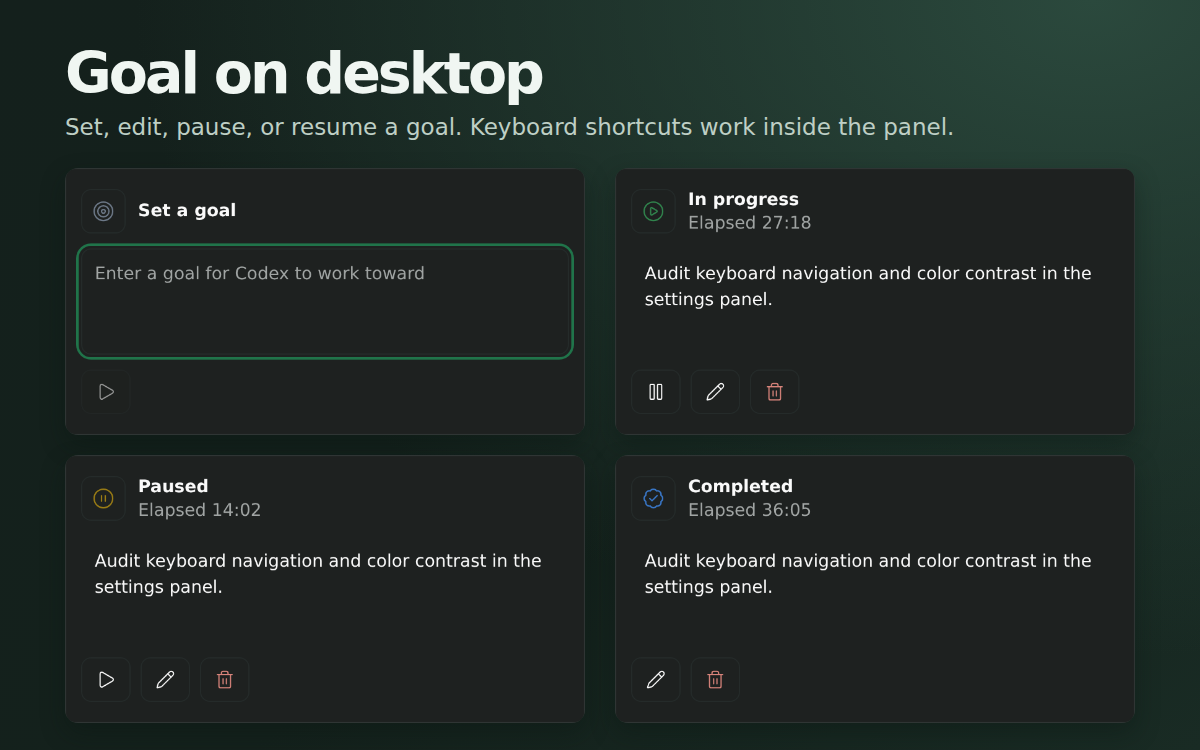
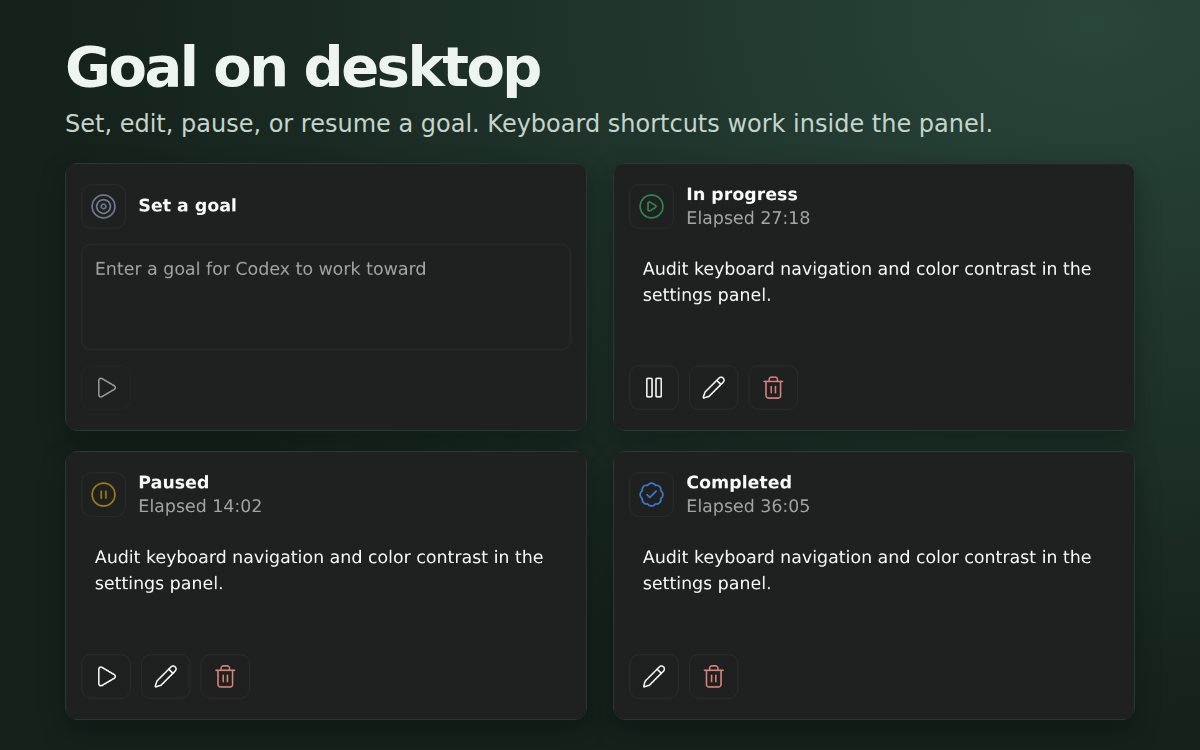
Release Codex Goal 0.1.7

diff --git a/client/goal.tsx b/client/goal.tsx
@@ -95,12 +95,20 @@ function GoalStatusIcon({ status, size }: { status: keyof typeof goalStatusIcons
   return <Icon name={name} color={color} size={size} />;
 }
 
-function GoalWarningIcon({ size, chineseTextOffset = 0 }: { size: number; chineseTextOffset?: number }) {
-  const { locale } = useTranslation(messages);
-  const translateY = locale.startsWith("zh") ? chineseTextOffset : 0;
+function GoalPillIcon({ status, chineseLabel = false }: { status: keyof typeof goalStatusIcons; chineseLabel?: boolean }) {
   return (
-    <View style={{ width: size, height: size, flexShrink: 0, transform: [{ translateY }] }}>
-      <GoalStatusIcon status="unavailable" size={size} />
+    <View style={{ transform: [{ translateY: chineseLabel ? 0.5 : -0.5 }] }}>
+      <GoalStatusIcon status={status} size={16} />
+    </View>
+  );
+}
+
+const panelStatusIconSize = 22;
+
+function GoalWarningIcon() {
+  return (
+    <View style={{ flexShrink: 0 }}>
+      <GoalStatusIcon status="unavailable" size={panelStatusIconSize} />
     </View>
   );
 }
@@ -118,29 +126,34 @@ export function createGoalIcon(
       if (unavailable) updateButton("Goal", failureTitle);
     }, [unavailable, failureTitle]);
     if (unavailable) {
-      return <GoalWarningIcon size={props.size} />;
+      return <GoalPillIcon status="unavailable" />;
     }
     return props.context === "agent" ? <GoalIndicator {...props} updateButton={updateButton} /> : null;
   };
 }
 
 function GoalIndicator({
-  host, agentId, layout, size, updateButton,
+  host, agentId, layout, updateButton,
 }: Extract<PluginButtonIconProps, { context: "agent" }> & {
   updateButton: (label: string, title: string) => void;
 }) {
   const { state: { data, dataUpdatedAt }, readFailed } = useGoal(host.id, agentId);
-  const { t } = useTranslation(messages);
+  const { t, locale } = useTranslation(messages);
   const goal = data?.goal;
   const status = readFailed ? t("readFailed") : goal ? t(`status.${goal.status}`) : null;
   const { seconds } = useGoalTime(data, dataUpdatedAt, readFailed);
   const elapsed = seconds === undefined ? null : formatDuration(seconds);
-  const label = elapsed ?? (readFailed ? t("readFailed") : "Goal");
+  const showReadFailure = readFailed && elapsed === null;
+  const label = elapsed ?? (showReadFailure ? t("pillReadFailed") : "Goal");
   const title = layout.compact ? "Goal" :
     ["Codex Goal", status, elapsed && t("elapsed", { time: elapsed })].filter(Boolean).join(" · ");
   useEffect(() => updateButton(label, title), [label, title, updateButton]);
-  if (readFailed) return <GoalWarningIcon size={size} chineseTextOffset={elapsed === null ? 1.5 : 0} />;
-  return <GoalStatusIcon status={goal?.status ?? "unset"} size={size} />;
+  return (
+    <GoalPillIcon
+      status={readFailed ? "unavailable" : goal?.status ?? "unset"}
+      chineseLabel={showReadFailure && locale.startsWith("zh")}
+    />
+  );
 }
 
 type SubscriptionRetry = { retrying: boolean; onRetry: () => void };
@@ -174,9 +187,9 @@ export function GoalSubscriptionNotice({
   const { t } = useTranslation(messages);
   return (
     <View style={{ gap: 10, paddingVertical: 4 }}>
-      <View style={{ flexDirection: "row", alignItems: "center", gap: 7 }}>
-        <GoalWarningIcon size={16} chineseTextOffset={2} />
-        <Text style={{ color: colors.foreground, fontWeight: "600", flexShrink: 1 }}>{t("syncFailed")}</Text>
+      <View style={styles.statusRow}>
+        <GoalWarningIcon />
+        <Text style={[styles.statusLabel, { color: colors.foreground, fontWeight: "600" }]}>{t("syncFailed")}</Text>
       </View>
       <Text accessibilityLiveRegion="polite" style={{ color: colors.foregroundMuted }}>
         {t(retrying ? "syncing" : "syncFailedDetail")}
@@ -206,8 +219,8 @@ export function GoalSubscriptionNotice({
 function GoalReadError({ theme, message }: Pick<PluginHostProps, "theme"> & { message: string }) {
   return (
     <View style={styles.statusRow}>
-      <GoalWarningIcon size={16} chineseTextOffset={2} />
-      <Text accessibilityLiveRegion="polite" style={{ color: theme.colors.foreground, flexShrink: 1 }}>
+      <GoalWarningIcon />
+      <Text accessibilityLiveRegion="polite" style={[styles.statusLabel, { color: theme.colors.foreground }]}>
         {message}
       </Text>
     </View>
@@ -299,10 +312,10 @@ function GoalControls({
             aria-hidden
             style={[styles.statusTile, { backgroundColor: colors.surface1, borderColor: colors.border }]}
           >
-            <GoalStatusIcon status={goal?.status ?? "unset"} size={layout.compact ? 20 : 18} />
+            <GoalStatusIcon status={goal?.status ?? "unset"} size={panelStatusIconSize} />
           </View>
           <View style={styles.statusText}>
-            <Text style={{ color: colors.foreground, fontWeight: "600" }}>{goal ? t(`status.${goal.status}`) : t("setup")}</Text>
+            <Text style={[styles.statusLabel, { color: colors.foreground, fontWeight: "600" }]}>{goal ? t(`status.${goal.status}`) : t("setup")}</Text>
             {goal && (
               <GoalTime theme={theme} snapshot={snapshot} receivedAt={state.dataUpdatedAt} stale={readFailed} />
             )}
@@ -431,6 +444,10 @@ const styles = StyleSheet.create({
     flexShrink: 1,
     gap: 3,
   },
+  statusLabel: {
+    flexShrink: 1,
+    includeFontPadding: false,
+  },
   objectiveText: {
     padding: 11,
     fontSize: 14,
@@ -449,7 +466,7 @@ function GoalTime({
   const { t } = useTranslation(messages);
   if (seconds === undefined) return null;
   return (
-    <Text style={{ color: theme.colors.foregroundMuted, fontVariant: ["tabular-nums"] }}>
+    <Text style={[styles.statusLabel, { color: theme.colors.foregroundMuted, fontVariant: ["tabular-nums"] }]}>
       {t("elapsed", { time: formatDuration(seconds) })}
     </Text>
   );
@@ -505,7 +522,7 @@ function Action({
           opacity: disabled ? 0.55 : 1,
         })}
       >
-        <Icon name={icon} size={compact ? 20 : 16} color={destructive ? colors.statusDanger : colors.foreground} />
+        <Icon name={icon} size={20} color={destructive ? colors.statusDanger : colors.foreground} />
       </Pressable>
       {hovered && (
         <View

diff --git a/client/messages.ts b/client/messages.ts
@@ -14,6 +14,7 @@ export const messages = defineTranslations({
       blockedDetail: "Resolve what’s blocking the goal, then choose Resume.",
       elapsed: "Elapsed {{time}}",
       readFailed: "Read failed",
+      pillReadFailed: "Error",
       syncFailed: "Goal session sync failed",
       syncFailedDetail: "Codex sessions could not be synced. The plugin will retry automatically.",
       syncing: "Syncing Codex sessions…",
@@ -86,6 +87,7 @@ export const messages = defineTranslations({
       blockedDetail: "解决阻碍后，点击继续来推进目标。",
       elapsed: "累计运行 {{time}}",
       readFailed: "读取失败",
+      pillReadFailed: "读取失败",
       syncFailed: "Goal 会话同步失败",
       syncFailedDetail: "暂时无法同步 Codex 会话。插件会自动重试。",
       syncing: "正在重新同步 Codex 会话…",

diff --git a/README.md b/README.md
@@ -4,7 +4,7 @@
 
 Codex Goal displays the current goal's elapsed time beside the composer in Codex sessions. Open the button to view its status and full objective, create or edit a goal, pause, resume, or clear it.
 
-The interface follows Paseo's language setting: Simplified Chinese is available, and other languages use English. The Goal button uses distinct icons for active, paused, completed, blocked, usage-limited, and budget-limited goals. Once a blocker is resolved, you can resume from the Goal panel.
+The interface follows Paseo's language setting, with Simplified Chinese available and English as the fallback. The Goal button uses eight distinct icons, including when no goal is set or the goal could not be read. The same status colors appear in the desktop popover and mobile sheet. Once a blocker is resolved, you can resume from the Goal panel.
 
 Elapsed time is based on the seconds recorded by Codex. While a goal is active and the session is running, the interface estimates the time since the last recorded update and reconciles it when Codex writes a new total. Pausing stops further goal progress, though the current turn may continue. Editing uses the native `/goal <objective>` command and attempts to activate the goal.
 
@@ -16,7 +16,7 @@ On desktop and web, shortcuts apply while the Goal panel has focus. The defaults
 
 Under **Settings → Plugins → Codex Goal**, choose the save binding from its dropdown. To change an edit, pause/resume, clear, or retry binding, click its current key and type one letter or choose **Delete**. Choose **Unassigned** to disable a shortcut. Settings are saved per Paseo host.
 
-These Paseo screenshots use sample data in desktop and mobile-sized browsers.
+These screenshots show the Goal panel in Paseo at desktop and mobile widths using sample data.
 
 | Desktop | Mobile |
 | --- | --- |
@@ -70,7 +70,7 @@ Publish new versions through the [codex-goal npm package](https://www.npmjs.com/
 
 Staged publishing requires Node.js 22.14 or later, npm 11.15 or later, and an npm account with publish access and two-factor authentication enabled.
 
-1. Update the version in `package.json` and `npm-shrinkwrap.json`, run the development checks, and inspect the package with `npm pack --dry-run --ignore-scripts`.
+1. Update the version in `package.json` and `npm-shrinkwrap.json`. Run the development checks and use `npm pack --dry-run --ignore-scripts` to verify that both listings and all screenshots are included. Push the release commit to `main` and wait for CI to pass.
 2. Stage the package with `npm stage publish`. Use `npm stage list codex-goal` to find the stage ID, then run `npm stage approve <stage-id>` and complete npm two-factor authentication to publish it.
 3. On a test daemon, install the exact release with `paseo plugin install npm:codex-goal@<version>`, check that it is running, and exercise the Goal panel.
 4. Check the automatic update PR for `fu021/codex-goal` in the Paseo registry. The marketplace serves the new version after Paseo approves and merges that update.

diff --git a/README.zh-CN.md b/README.zh-CN.md
@@ -4,7 +4,7 @@
 
 在 Codex 会话的输入框旁显示 Goal 的累计运行时间。点开按钮可查看状态和完整目标、创建或编辑目标、暂停、继续和清除。
 
-界面跟随 Paseo 的语言设置，支持简体中文，其他语言使用英文。Goal 按钮用不同图标区分进行中、已暂停、已完成、受阻和用量或预算限制。排除阻碍后，可以从 Goal 面板继续。
+界面跟随 Paseo 的语言设置，支持简体中文，其他语言使用英文。Goal 按钮用八种图标区分状态，包括未设置目标和读取失败。桌面浮层和手机底部面板使用相同的状态配色。排除阻碍后，可以从 Goal 面板继续。
 
 累计时间以 Codex 已记录的秒数为准。Goal 活跃且会话正在运行时，界面会估算最近一次目标更新后的本轮耗时，并在 Codex 写入新的累计值时校准。暂停停止目标的后续推进，当前一轮仍可能继续。编辑使用原生 `/goal <目标>`，会尝试激活目标。
 
@@ -16,7 +16,7 @@
 
 在 **设置 → 插件 → Codex Goal** 中，保存键仍在下拉菜单中选择。要更改编辑、暂停或继续、清除确认或重试键，点当前键位后输入一个字母，或选择 **Delete**。选择「未设置」可停用快捷键。设置按 Paseo 主机保存。
 
-以下截图使用示例数据，分别在桌面和手机尺寸的浏览器里打开 Paseo。
+以下截图使用示例数据，展示桌面宽度和手机宽度下的 Paseo Goal 面板。
 
 | 桌面 | 手机 |
 | --- | --- |
@@ -70,7 +70,7 @@ paseo plugin ls
 
 暂存发布需要 Node.js 22.14 或更新版本、npm 11.15 或更新版本，以及有权发布此包并已启用双重验证的 npm 账户。
 
-1. 更新 `package.json` 和 `npm-shrinkwrap.json` 中的版本号，运行开发检查，再用 `npm pack --dry-run --ignore-scripts` 检查包内容。
+1. 更新 `package.json` 和 `npm-shrinkwrap.json` 中的版本号。运行开发检查，再用 `npm pack --dry-run --ignore-scripts` 确认双语介绍和全部截图都在包内。将发布提交推送到 `main`，等待 CI 通过。
 2. 运行 `npm stage publish` 暂存包，用 `npm stage list codex-goal` 查找暂存 ID，再执行 `npm stage approve <暂存 ID>` 并完成 npm 双重验证，正式发布。
 3. 在测试 daemon 上用 `paseo plugin install npm:codex-goal@<版本号>` 安装该版本，确认插件正在运行并试用 Goal 面板。
 4. 查看 Paseo 注册表为 `fu021/codex-goal` 自动创建的更新 PR。Paseo 审核并合并后，市场才会提供新版本。

diff --git a/AGENTS.md b/AGENTS.md
@@ -1,0 +1,22 @@
+# Paseo 插件 Codex Goal
+
+- GitHub 源码仓库为 `Fu021/paseo-codex-goal`，主分支为 `main`。公开 npm 包名为 `codex-goal`，Paseo 市场条目 ID 为 `fu021/codex-goal`。
+- `index.client.tsx` 注册 Paseo 界面，`client/` 包含 Goal 面板、翻译和快捷键设置。`index.server.ts` 处理目标操作，`server/store.ts` 以只读方式查询 Codex 的 SQLite 数据库，`shared/` 定义 RPC 和设置。目标变更通过所选会话的原生 `/goal` 命令执行。
+- 最低版本为 Paseo 0.16.0、Codex CLI 0.128.0 和 Node.js 22.13（插件运行环境）。使用 Paseo 的公开 SDK。
+
+## 开发与测试
+
+- 运行 `npm ci --ignore-scripts`、`npm run typecheck` 和 `npm test`。GitHub Actions 使用 Node.js 22 和 24 进行检查。
+- 在隔离的 Paseo daemon 上验证运行时变更。修改界面后，检查桌面宽屏和手机窄屏布局，包括图标与文字对齐、固定状态配色和清除确认。修改快捷键后，在桌面端或网页端将焦点放在面板内进行验证。
+- 长期复用的工具链放在持久目录。验证完成后，清理一次性测试 daemon、打包产物和预览文件。
+
+## 插件市场
+
+- 在 `OVERVIEW.md` 和 `OVERVIEW.zh-CN.md` 中分别维护英文和简体中文介绍，并在 `paseo-plugin.json` 的 `translations.zh-CN` 中维护中文元数据。npm 包须包含两份介绍。
+- 三张市场展示图统一使用英文和 16:10 比例。用示例数据截取实际 Paseo 界面，封面 `assets/market.png` 展示全部八种状态图标，`assets/desktop.png` 和 `assets/mobile.png` 展示各自布局下的常用状态。
+
+## 发布
+
+1. 同步更新 `package.json` 和 `npm-shrinkwrap.json` 的版本号。运行检查，再用 `npm pack --dry-run --ignore-scripts` 确认打包包含双语介绍、清单和展示图。将发布提交推送到 `main`，确认 CI 通过。
+2. 正式版本只通过 npm 发布。运行 `npm stage publish`，然后运行 `npm stage approve <stage-id>`，由发布者完成双重验证。确认公开版本后，在测试 daemon 上安装 `npm:codex-goal@<version>` 并验证基本功能。
+3. 等待 `getpaseo/plugins` 检测 npm 的 `latest` 并自动创建更新 PR。常规发布无需 fork 市场仓库，也无需手动开 Issue 或提 PR。跟进机器人 PR 的审核和合并，确认市场已更新到获批版本。

diff --git a/OVERVIEW.md b/OVERVIEW.md
@@ -10,7 +10,7 @@ Requires Paseo 0.16.0 or later, Codex CLI 0.128.0 or later, and a plugin runtime
 
 ## Controls and shortcuts
 
-Each goal state has its own icon and color. When there is no goal, the panel opens an editor. After resolving a blocker, choose Resume to continue. If session sync fails, the plugin retries automatically. To retry manually, open the warning or use the composer's extra controls.
+The Goal button shows a distinct icon and color for each state, including when there is no goal or it could not be read. Open it in the desktop popover or mobile sheet to see the details or set a new goal. After resolving a blocker, choose Resume to continue. If session sync fails, the plugin retries automatically. To retry manually, open the warning or use the composer's extra controls.
 
 On desktop and web, use keyboard shortcuts inside the Goal panel to start or save, edit, pause or resume, open clear confirmation, or retry. Change or unassign shortcuts in Settings → Plugins → Codex Goal. The plugin interface follows Paseo's language, with English and Simplified Chinese available.
 
